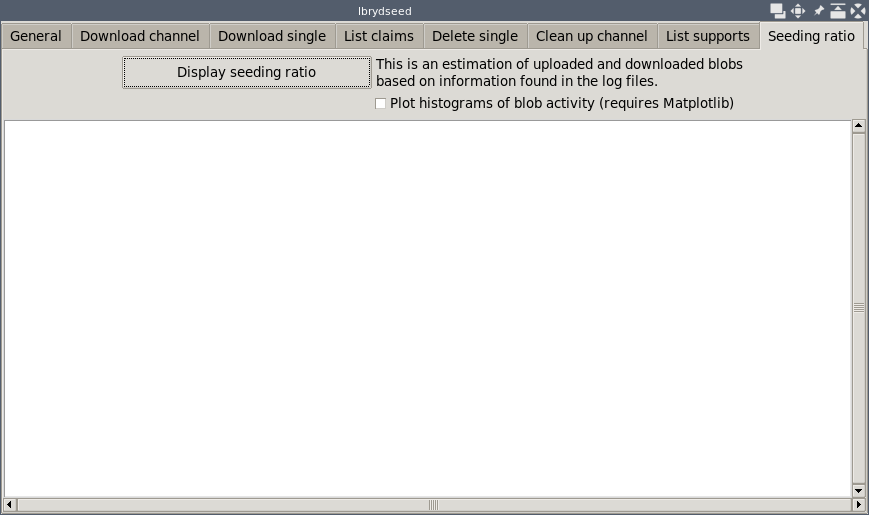
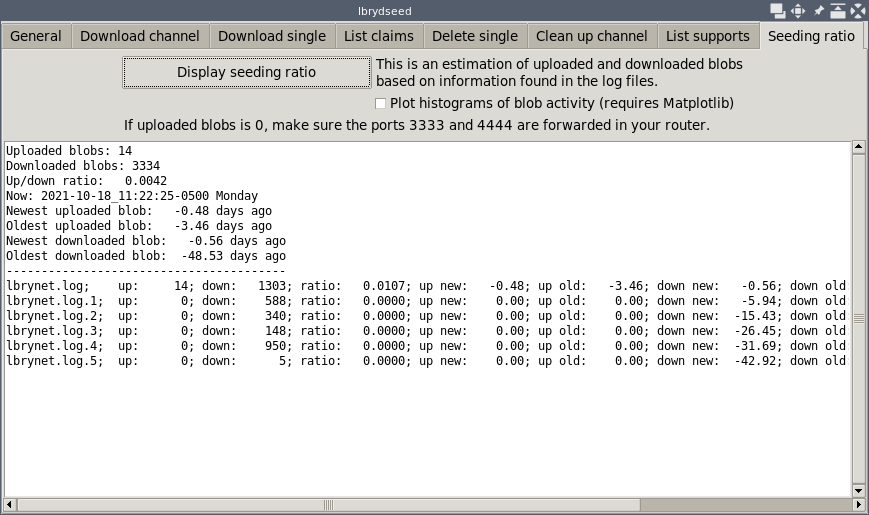
pages: add label for `SeedPage` if uploaded blobs is zero
Explanation:

"If uploaded blobs is 0, make sure the ports 3333 and 4444
are forwarded in your router."

diff --git a/lbseed/pages.py b/lbseed/pages.py
@@ -421,6 +421,7 @@ class SeedPage:
         frame.pack(padx=4, pady=4)
         self.setup_grid_button_seed(frame, start=0)
         self.setup_grid_check_seed(frame, start=1)
+        self.setup_info_seed(frame, start=2)
 
     def setup_grid_button_seed(self, parent, start=0):
         b_seed = ttk.Button(parent, text="Display seeding ratio",
@@ -442,6 +443,13 @@ class SeedPage:
                                    text=("Plot histograms of blob activity "
                                          "(requires Matplotlib)"))
         chk_plot.grid(row=start, column=1, sticky=tk.W)
+
+    def setup_info_seed(self, parent, start=0):
+        info = ttk.Label(parent,
+                         text=("If uploaded blobs is 0, "
+                               "make sure the ports 3333 and 4444 "
+                               "are forwarded in your router."))
+        info.grid(row=start, column=0, columnspan=2, sticky=tk.W)
 
     def setup_textbox_seed(self, parent):
         self.textbox_seed = blocks.setup_textbox(parent,

diff --git a/README.md b/README.md
@@ -2,9 +2,9 @@
 
 This is a simple graphical interface that allows us
 to download the latest claims from a list of channels in the LBRY network.
-We can also do other operations like deleting individual claims,
-cleaning up claims from channels, listing all downloaded claims,
-showing our supports, and estimating our seeding ratio.
+We can also do other operations like delete individual claims,
+clean up claims from channels, list all downloaded claims,
+show our supports, and show an estimate of our seeding ratio.
 
 It uses the [lbrytools](https://github.com/belikor/lbrytools) library
 to add more functionality to the basic `lbrynet` daemon.
